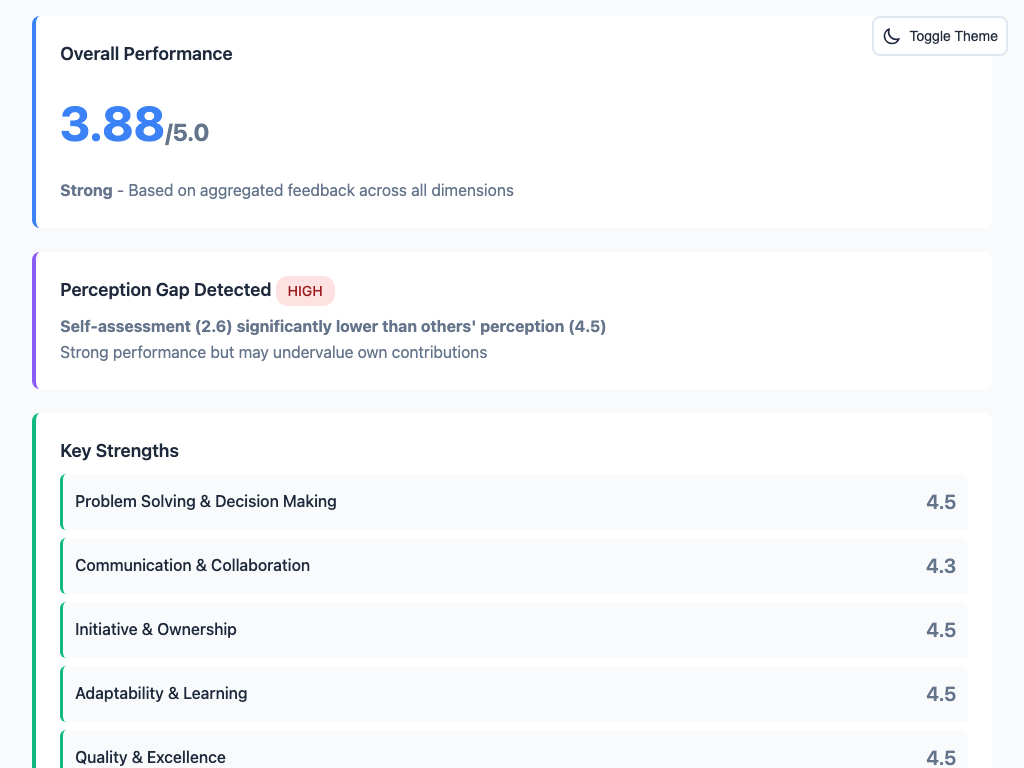
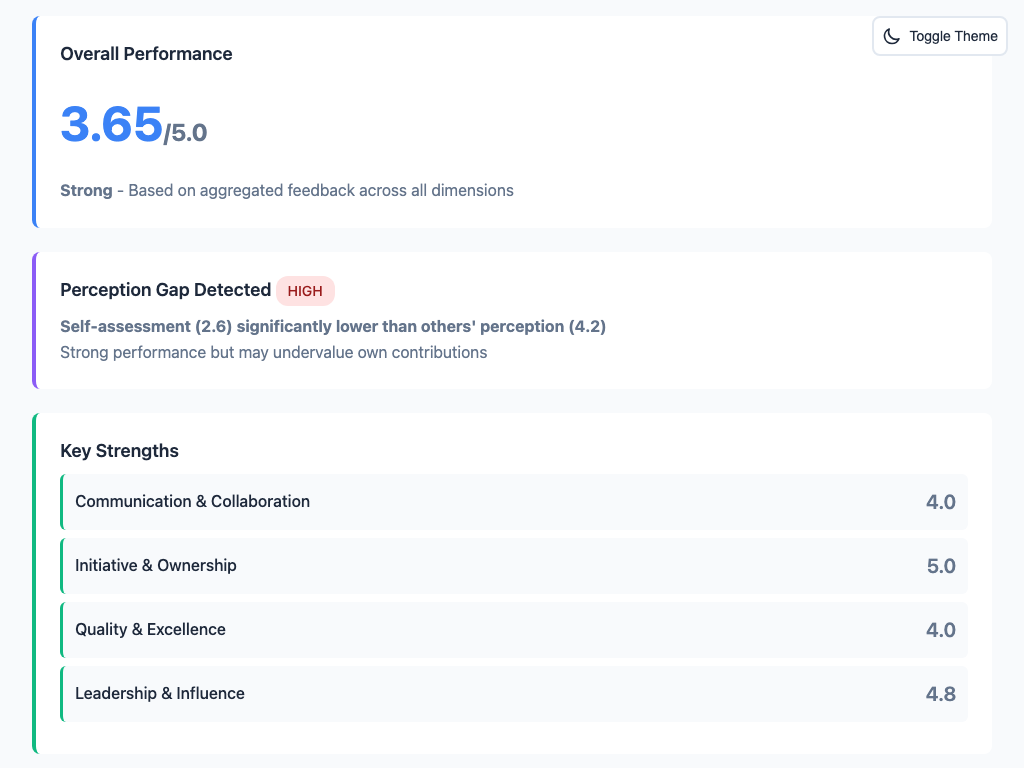
Update screenshot generation script with more realistic/random data
include all the screenshots

diff --git a/templates/landing/index.html b/templates/landing/index.html
@@ -270,6 +270,24 @@
                         <div class="carousel-slide" data-slide="3">
                             <div class="screenshot-hover-wrapper">
                                 <picture class="screenshot-layer screenshot-light">
+                                    <source srcset="{% static 'img/screenshots/feedback_desktop_light.webp' %}" type="image/webp">
+                                    <img src="{% static 'img/screenshots/feedback_desktop_light.png' %}"
+                                         alt="Anonymous Feedback Form - Light Theme"
+                                         loading="lazy">
+                                </picture>
+                                <picture class="screenshot-layer screenshot-dark">
+                                    <source srcset="{% static 'img/screenshots/feedback_desktop_dark.webp' %}" type="image/webp">
+                                    <img src="{% static 'img/screenshots/feedback_desktop_dark.png' %}"
+                                         alt="Anonymous Feedback Form - Dark Theme"
+                                         loading="lazy">
+                                </picture>
+                                <div class="theme-indicator">Hover to toggle theme</div>
+                            </div>
+                            <p class="carousel-caption">Anonymous feedback collection with intuitive forms and progress tracking</p>
+                        </div>
+                        <div class="carousel-slide" data-slide="4">
+                            <div class="screenshot-hover-wrapper">
+                                <picture class="screenshot-layer screenshot-light">
                                     <source srcset="{% static 'img/screenshots/team_desktop_light.webp' %}" type="image/webp">
                                     <img src="{% static 'img/screenshots/team_desktop_light.png' %}"
                                          alt="Team Management - Light Theme"
@@ -292,7 +310,8 @@
                         <button class="carousel-dot active" data-slide="0" aria-label="Show report header"></button>
                         <button class="carousel-dot" data-slide="1" aria-label="Show report charts"></button>
                         <button class="carousel-dot" data-slide="2" aria-label="Show dashboard screenshot"></button>
-                        <button class="carousel-dot" data-slide="3" aria-label="Show team management screenshot"></button>
+                        <button class="carousel-dot" data-slide="3" aria-label="Show feedback form"></button>
+                        <button class="carousel-dot" data-slide="4" aria-label="Show team management screenshot"></button>
                     </div>
                 </div>
             </div>

diff --git a/core/management/commands/generate_screenshot_data.py b/core/management/commands/generate_screenshot_data.py
@@ -244,15 +244,32 @@ class Command(BaseCommand):
             section__questionnaire=questionnaire
         ).order_by('section__order', 'order'))
 
-        # Create responses with "imposter syndrome" pattern for visual gap in charts
+        # Create responses with differentiated patterns by category
         for token in tokens:
             for question in questions:
                 if question.question_type in ['rating', 'likert']:
-                    # Self rates lower (2-3), others rate higher (4-5)
+                    # Create realistic differentiation between categories
+                    question_seed = hash(question.id) % 10
+
                     if token.category == 'self':
-                        rating = 2 if hash(question.id) % 3 == 0 else 3
+                        # Self rates lower (imposter syndrome pattern: 2-3)
+                        rating = 2 if question_seed < 4 else 3
+                    elif token.category == 'manager':
+                        # Managers rate slightly lower but fair (3-4, occasional 5)
+                        if question_seed < 2:
+                            rating = 3
+                        elif question_seed < 8:
+                            rating = 4
+                        else:
+                            rating = 5
+                    elif token.category == 'peer':
+                        # Peers rate high (4-5, mostly 4s)
+                        rating = 4 if question_seed < 7 else 5
+                    elif token.category == 'direct_report':
+                        # Direct reports rate highest (4-5, mostly 5s)
+                        rating = 5 if question_seed < 7 else 4
                     else:
-                        rating = 4 if hash(question.id) % 2 == 0 else 5
+                        rating = 4
 
                     answer_data = {'value': rating}
                 elif question.question_type == 'text':
